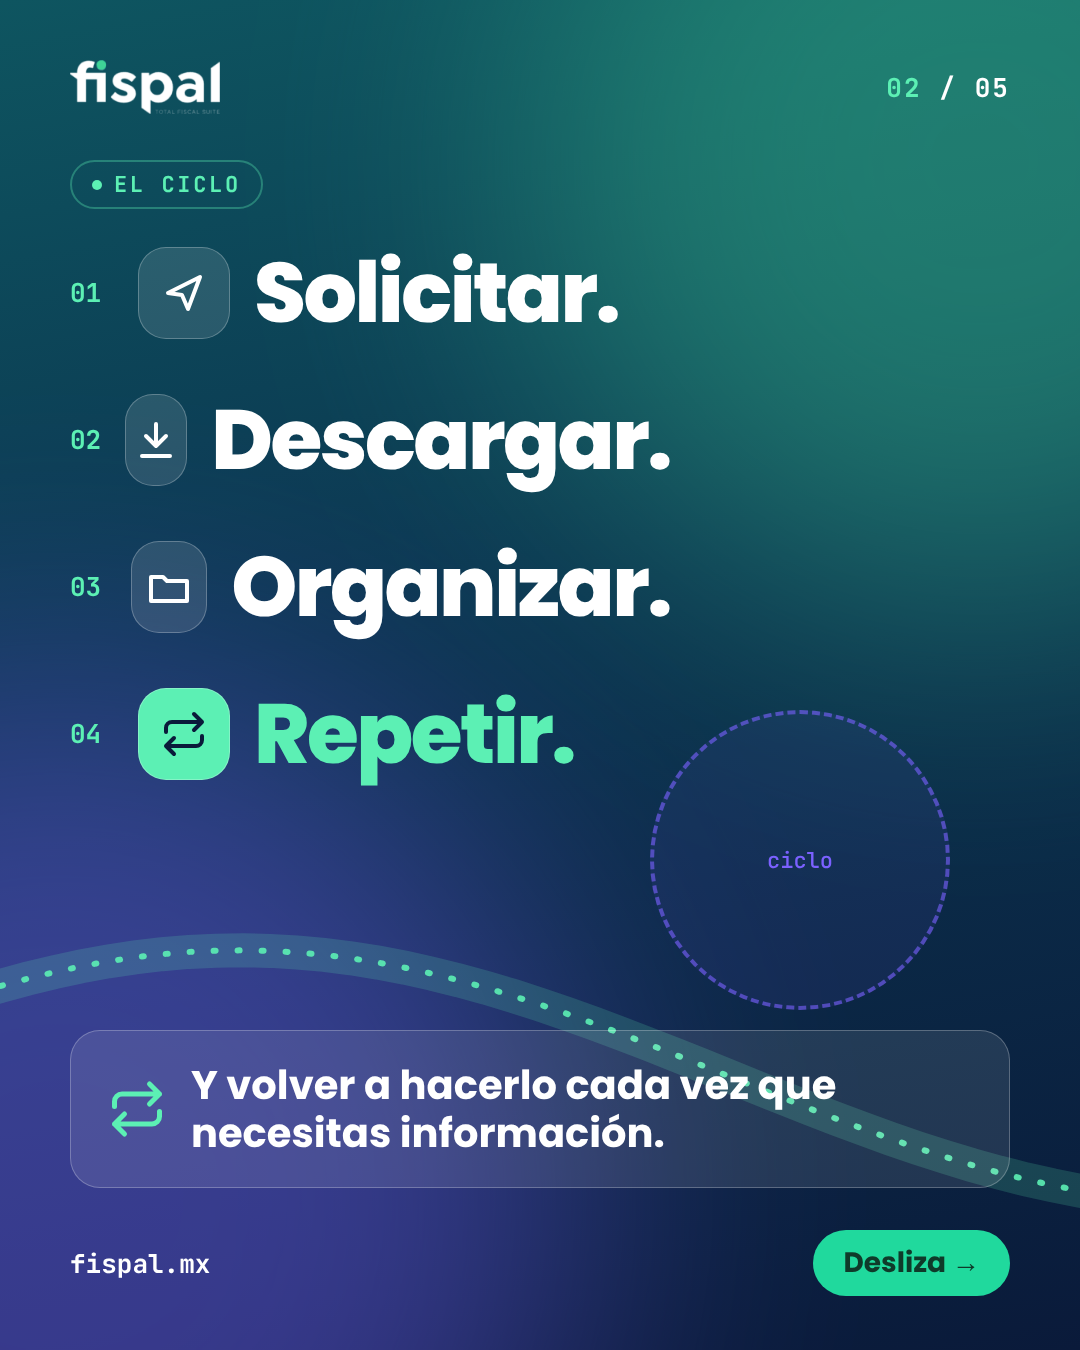
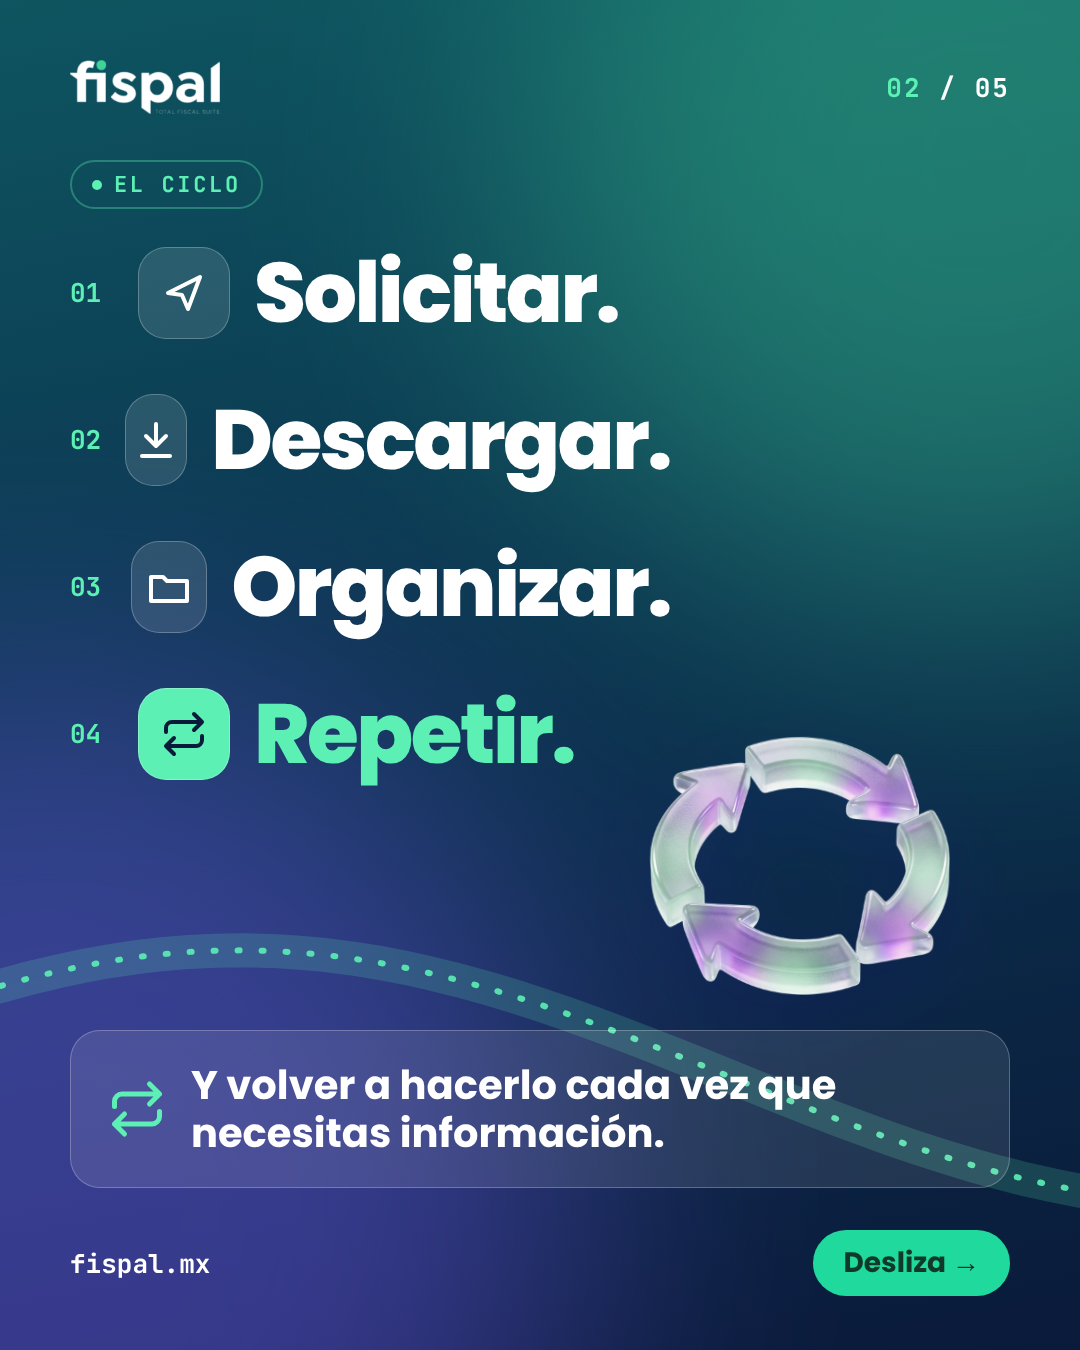
Fispal carrusel 3: new transparent glass illustrations
Claude-Session: https://claude.ai/code/session_01NghCctPQaKXziVeL1FGG6n

Changed region(s): [[0.5806, 0.5289, 0.8861, 0.7467], [0.7028, 0.6222, 0.7639, 0.6533]]

diff --git a/editor/src/carruseles/C3Descarga.tsx b/editor/src/carruseles/C3Descarga.tsx
@@ -56,7 +56,7 @@ const S1: React.FC = () => (
         </Card>
       ))}
     </div>
-    <Glass3D name="nube-descarga" x={COL2 + COL / 2} y={960} size={300} />
+    <Glass3D name="nube-descarga" x={COL2 + COL / 2} y={985} size={280} />
     <div style={{ position: "absolute", left: L, right: 1080 - R, top: 1125, fontFamily: FONT, fontWeight: 600, fontSize: 34, color: t.sub }}>
       <b style={{ color: t.ink }}>Spoiler:</b> esa no es la única forma de hacerlo. →
     </div>
@@ -111,7 +111,7 @@ const S3: React.FC = () => (
       <div style={{ fontFamily: FONT, fontWeight: 800, fontSize: 210, color: MINT, lineHeight: 0.95, letterSpacing: "-0.04em", textShadow: "0 20px 60px rgba(92,240,180,.35)" }}>1,000+</div>
       <Title t={t} size={56} parts={["Es descargar ", { hl: "cientos o miles." }]} style={{ marginTop: 26 }} />
     </div>
-    <Glass3D name="pila-xml" x={850} y={860} size={460} />
+    <Glass3D name="pila-xml" x={860} y={850} size={620} />
   </Frame>
 );
 
